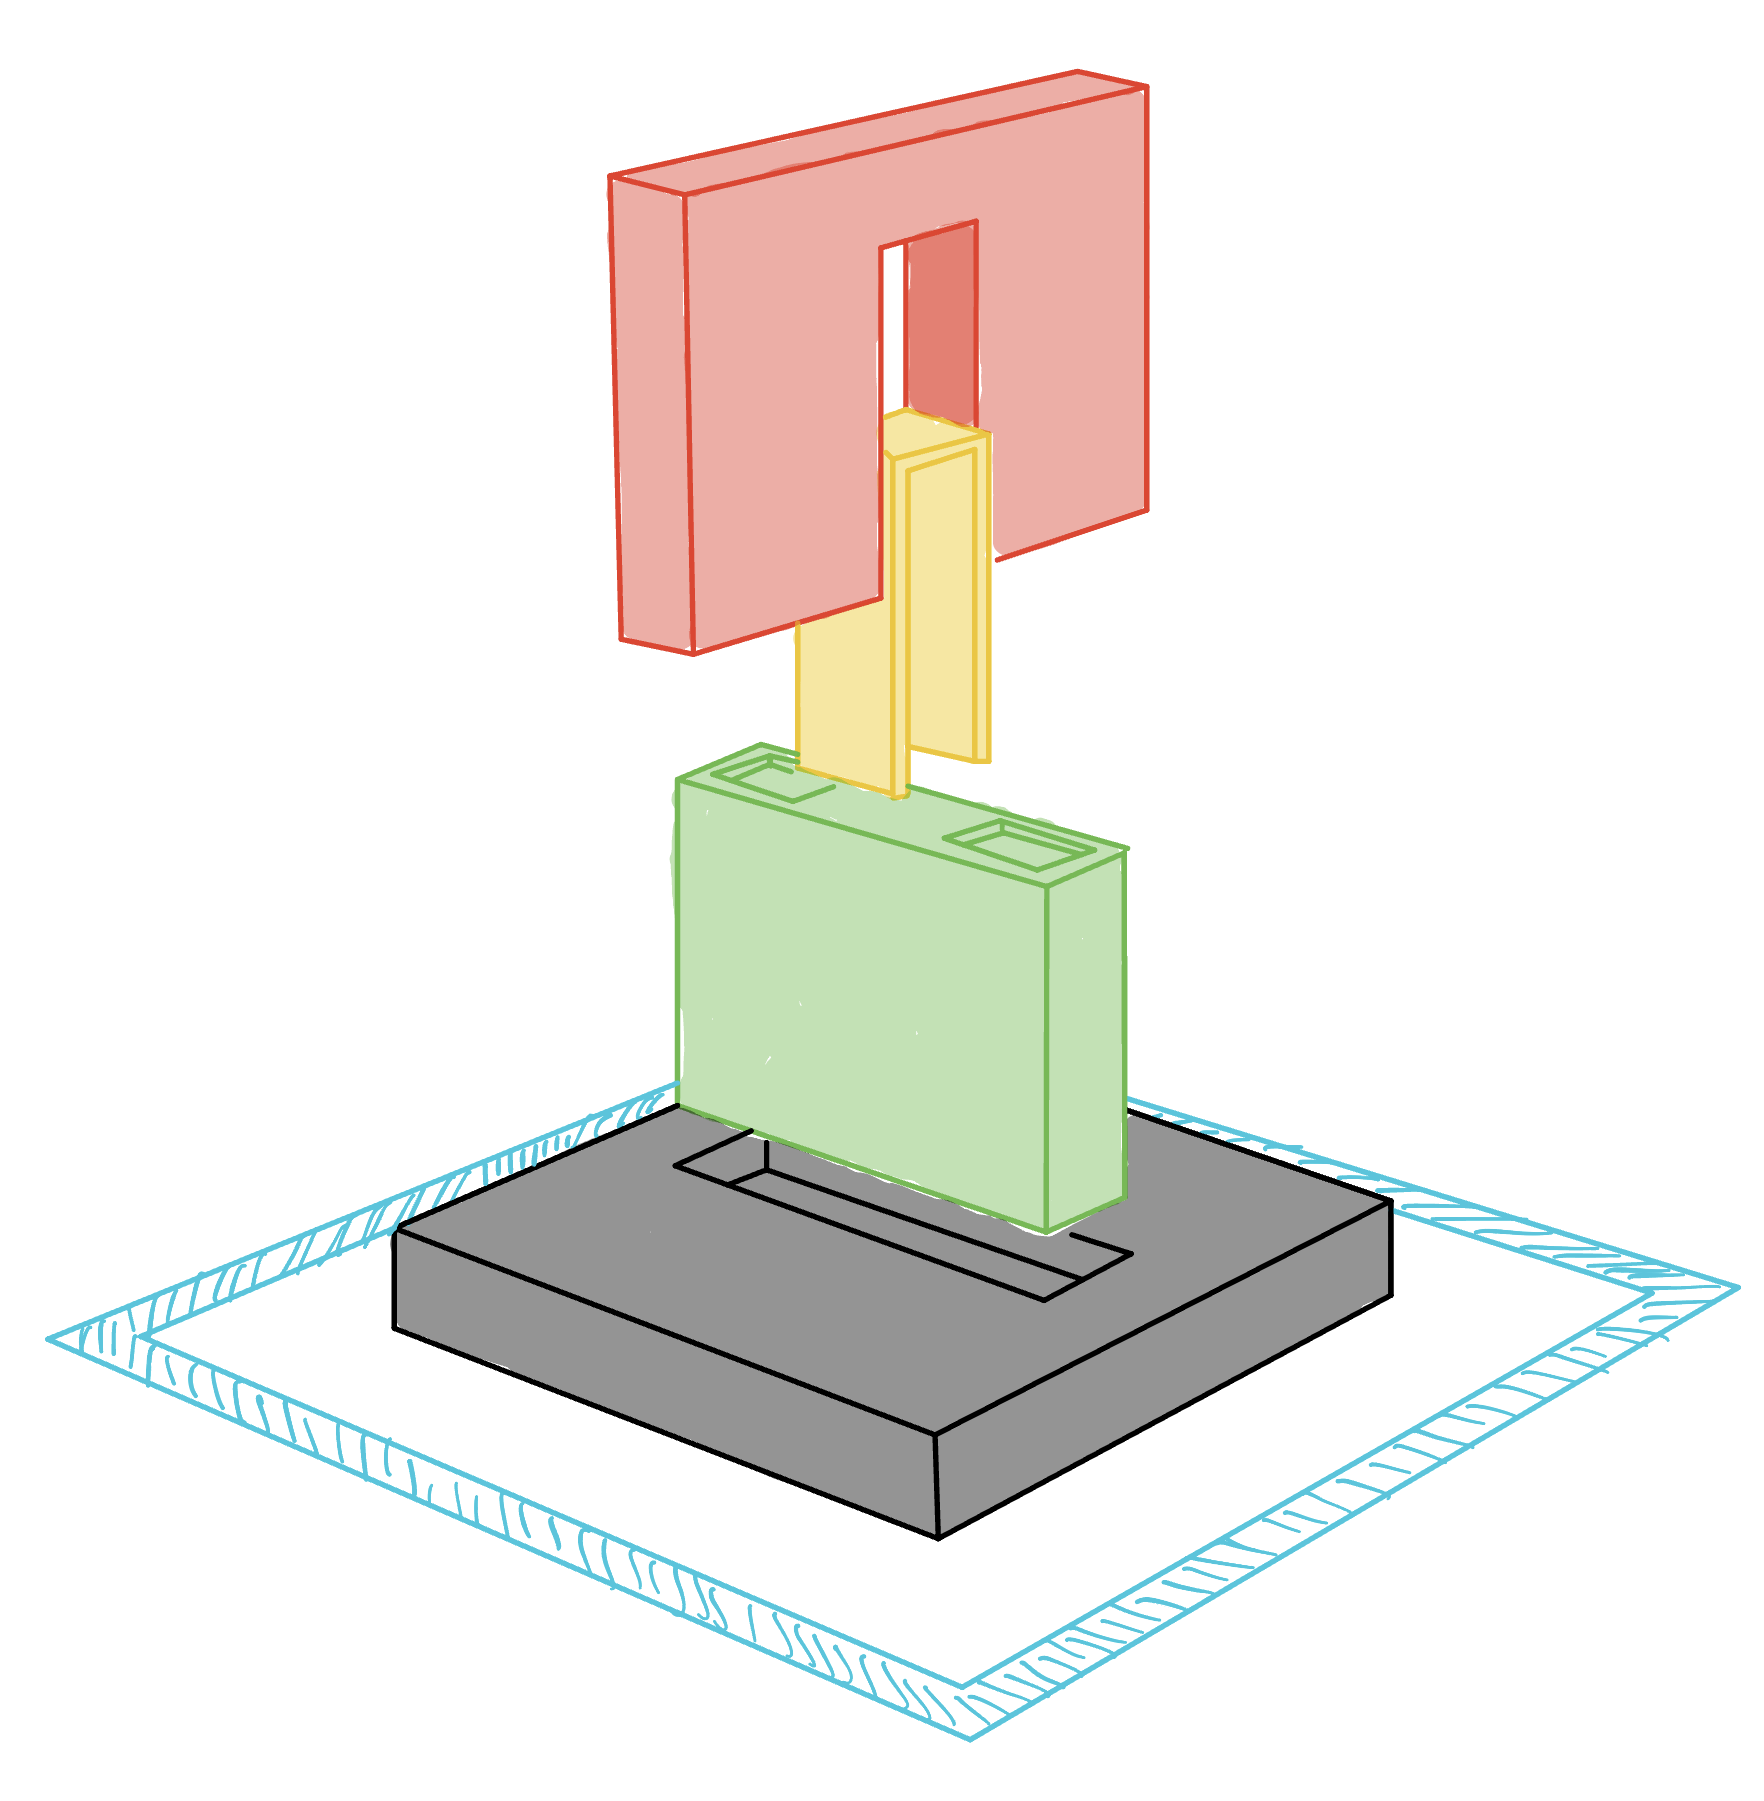
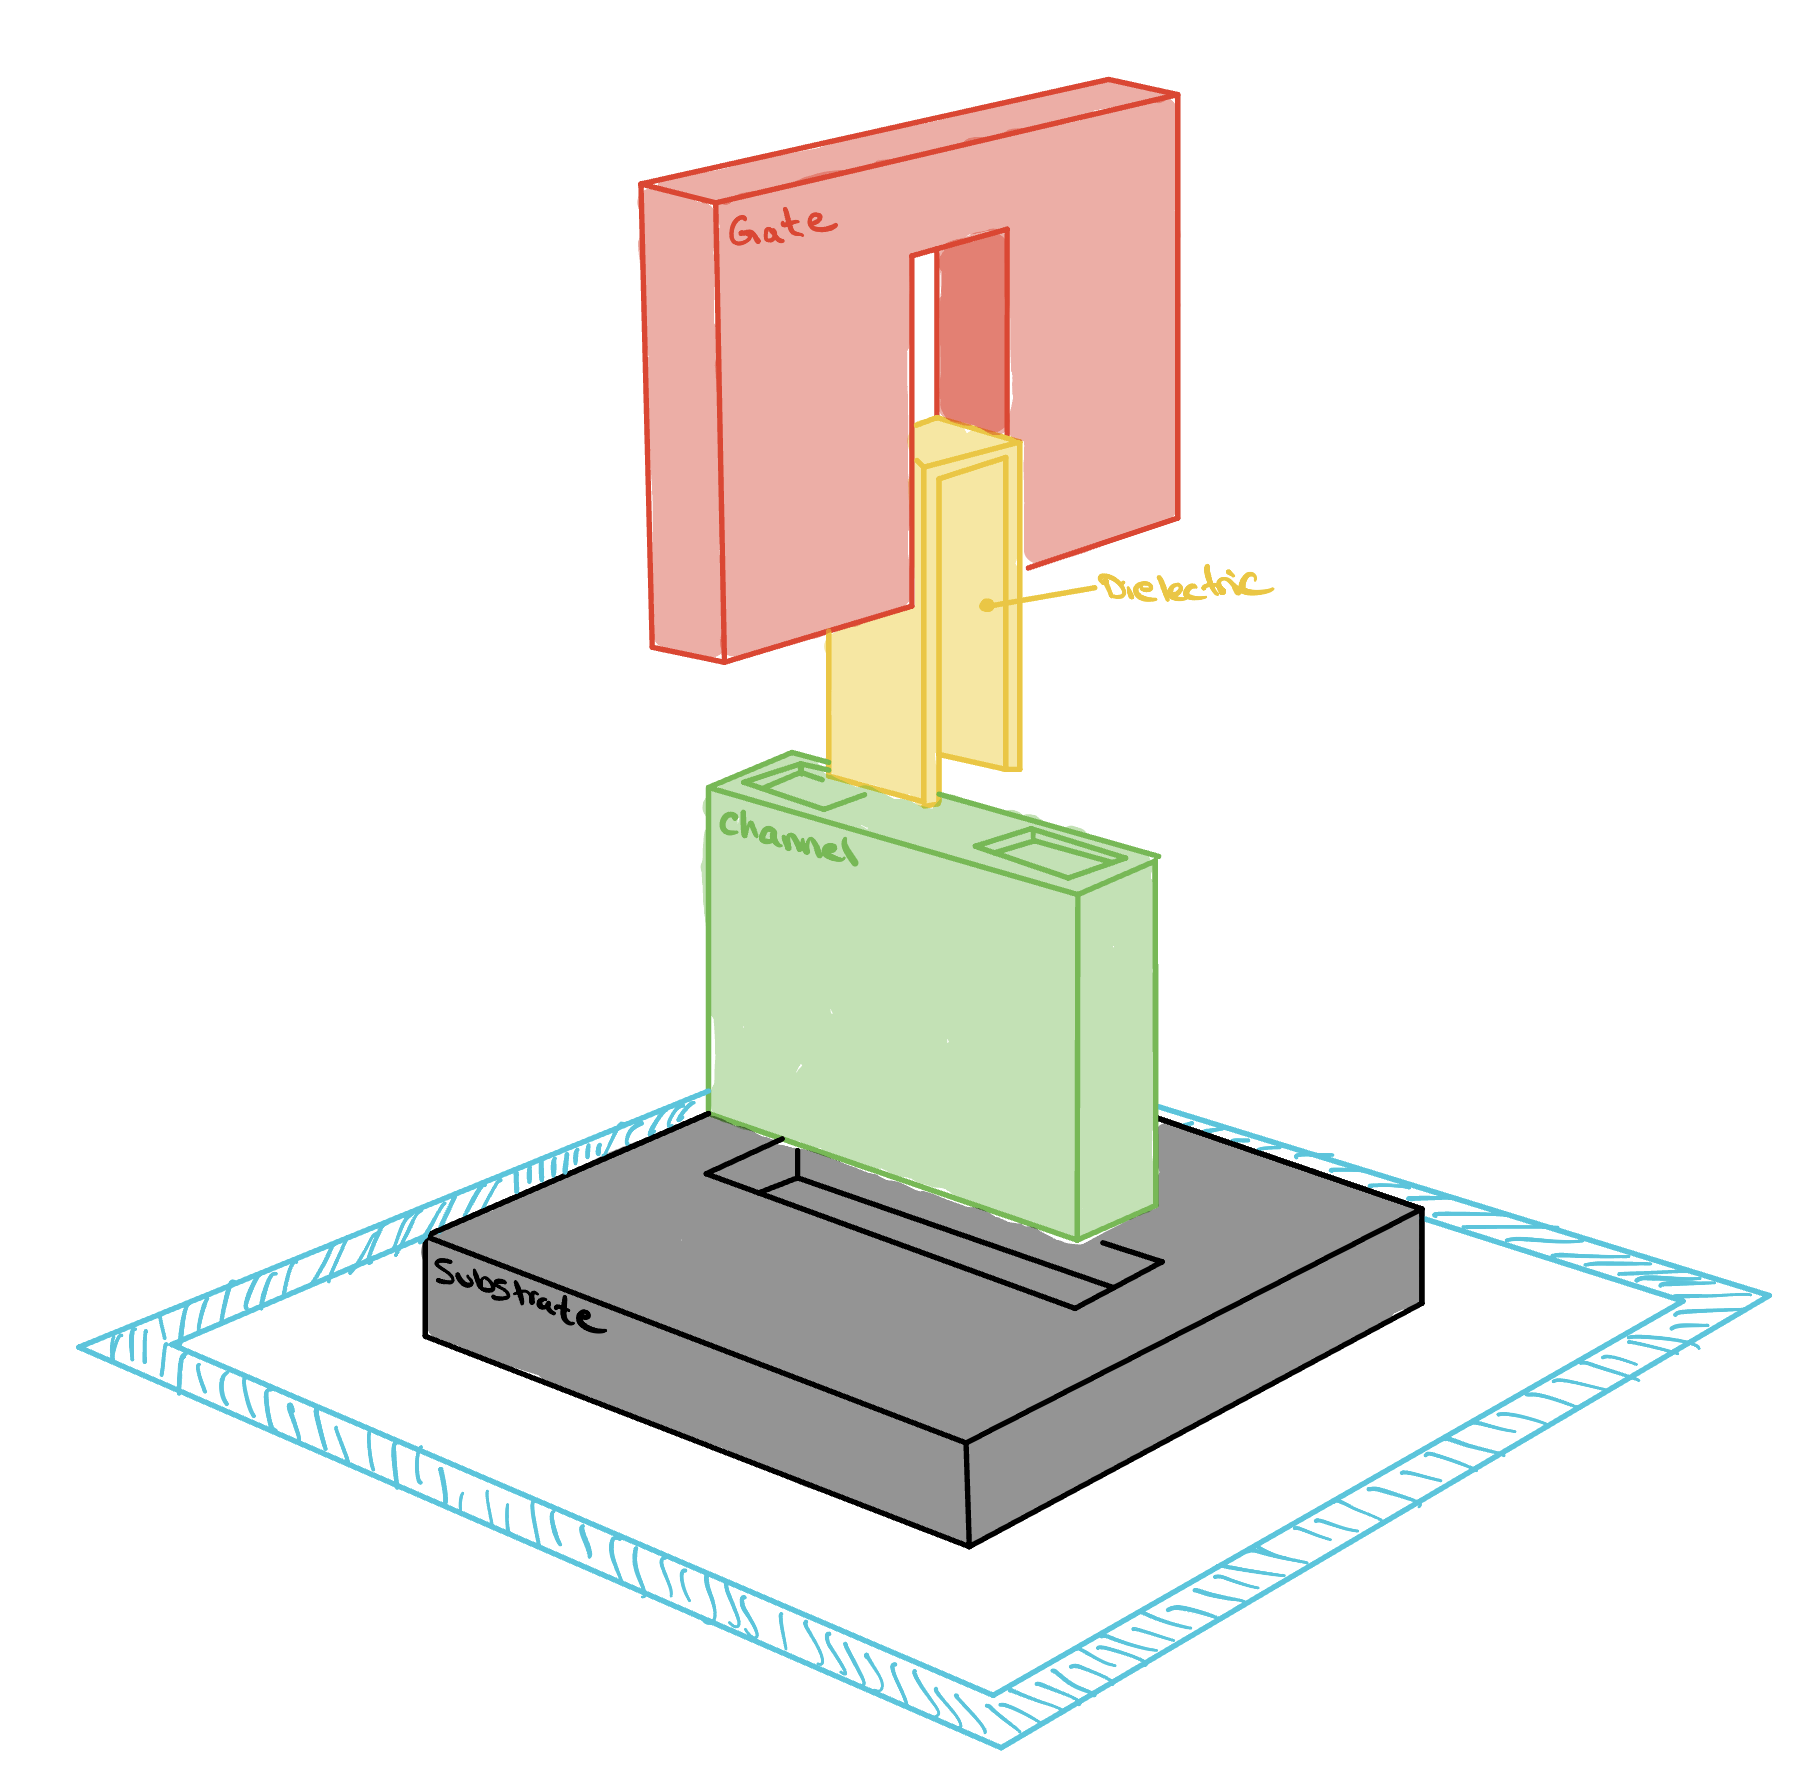
Add Transistor Basics lesson (Introduction to Physical Design)
- New lesson page: hero intro (transistor as a switch) + Anatomy of a Transistor section using the exploded FinFET diagram
- Add Transistor Basics to the Introduction to Physical Design drawer group

diff --git a/introduction-to-physical-design/transistor-basics/index.html b/introduction-to-physical-design/transistor-basics/index.html
@@ -1,0 +1,189 @@
+<!DOCTYPE html>
+<html lang="en">
+<head>
+  <meta charset="UTF-8" />
+  <meta name="viewport" content="width=device-width, initial-scale=1.0" />
+
+  <!-- Mark JS available before first paint, so the "hidden-before-reveal"
+       styles only apply when scroll.js can reveal them again. Without JS this
+       never runs and the full page stays visible. -->
+  <script>document.documentElement.classList.add("js");</script>
+
+  <title>Transistor Basics</title>
+  <meta name="description"
+        content="A transistor is nothing more than a switch, and it is the building block of every modern computer. Learn how a transistor works and how a handful of them wire together into the logic gates behind every circuit." />
+
+  <!-- Social link previews: shared logo + "Silicon From Scratch" card (see index.html). -->
+  <meta property="og:type" content="website" />
+  <meta property="og:site_name" content="Silicon From Scratch" />
+  <meta property="og:title" content="Silicon From Scratch" />
+  <meta property="og:url" content="https://siliconfromscratch.com/introduction-to-physical-design/transistor-basics/" />
+  <meta property="og:image" content="https://siliconfromscratch.com/assets/home/logo.jpg" />
+  <meta property="og:image:width" content="1408" />
+  <meta property="og:image:height" content="768" />
+  <meta property="og:image:alt" content="Silicon From Scratch logo" />
+  <meta name="twitter:card" content="summary_large_image" />
+  <meta name="twitter:title" content="Silicon From Scratch" />
+  <meta name="twitter:image" content="https://siliconfromscratch.com/assets/home/logo.jpg" />
+
+  <!-- Favicon follows the browser colour scheme: the grey/purple mark on
+       light tab bars, the dark-theme symbol on dark ones. -->
+  <link rel="icon" type="image/png" media="(prefers-color-scheme: light)" href="/assets/home/logo-symbol-light.png" />
+  <link rel="icon" type="image/png" media="(prefers-color-scheme: dark)" href="/assets/home/logo-symbol.png" />
+
+  <link rel="preconnect" href="https://fonts.googleapis.com" />
+  <link rel="preconnect" href="https://fonts.gstatic.com" crossorigin />
+  <link href="https://fonts.googleapis.com/css2?family=Bricolage+Grotesque:opsz,wght@12..96,400..700&family=JetBrains+Mono:wght@400;500&family=Newsreader:ital,opsz,wght@0,6..72,400..600;1,6..72,400..500&display=swap"
+        rel="stylesheet" />
+
+  <!-- Shared site styles, then the ALU project components (this page lives at
+       /introduction-to-physical-design/transistor-basics/, two levels down). -->
+  <link rel="stylesheet" href="../../styles/main.css" />
+  <link rel="stylesheet" href="../../styles/alu.css" />
+</head>
+<body class="theme-dark page-logic">
+  <a class="skip-link" href="#main">Skip to content</a>
+
+  <!-- ============================== TOP BAR ============================== -->
+  <header class="topbar">
+    <div class="container topbar__inner">
+      <a class="wordmark" href="../../" aria-label="Silicon From Scratch — home">
+        <img class="wordmark__mark" src="../../assets/home/logo-symbol.png" alt="" aria-hidden="true" />
+        Silicon From Scratch
+      </a>
+
+      <nav class="nav" id="primary-nav" aria-label="Primary">
+        <a href="../../">Home</a>
+        <a href="../../meet-the-processor/">Meet the Processor</a>
+        <a href="https://github.com/estaresinic05/Silicon-From-Scratch"
+           target="_blank" rel="noopener">GitHub</a>
+        <a href="../../about/">About</a>
+        <a href="../../#tools">Tools</a>
+      </nav>
+
+      <div class="topbar__right">
+        <!-- Section index (desktop only): hover the ☰ to open the project directory -->
+        <div class="toc" id="page-toc">
+          <button class="toc__btn" type="button" aria-haspopup="true"
+                  aria-expanded="false" aria-label="Open the project directory">
+            <span class="nav-toggle__bars" aria-hidden="true"></span>
+          </button>
+          <ul class="toc__menu" aria-label="Project directory"></ul>
+        </div>
+
+        <button class="nav-toggle" id="nav-toggle"
+                aria-label="Toggle navigation menu"
+                aria-expanded="false" aria-controls="primary-nav">
+          <span class="nav-toggle__bars" aria-hidden="true"></span>
+        </button>
+      </div>
+    </div>
+  </header>
+
+  <main id="main">
+    <span id="top"></span>
+
+    <!-- ============================== DOC HERO ============================ -->
+    <section class="doc-hero doc-hero--balanced container" aria-labelledby="tb-title">
+      <div class="doc-hero__text">
+        <h1 id="tb-title" class="title-eyebrow"><span class="title-eyebrow__text"><span class="title-eyebrow__group">Transistor</span> <span class="title-eyebrow__group">Basics</span></span></h1>
+        <p class="doc-hero__lead">
+          <strong>Transistors</strong> are the building blocks of every modern
+          computer, and yet each one is nothing more than a <strong>switch</strong>.
+          In this lesson we will look at how that switch actually works, and how just
+          a handful of them, wired together, build the very logic gates we met
+          earlier.
+        </p>
+      </div>
+
+      <figure class="doc-hero__art">
+        <img src="../../assets/introduction-to-physical-design/transistor-basics.jpg"
+             alt="A hand-drawn three-dimensional sketch of a transistor: a grey base with a green fin rising through a red gate slab, and two grey metal contacts standing above it, labelled Transistor Basics."
+             decoding="async" />
+      </figure>
+    </section>
+
+    <!-- ========================= ANATOMY OF A TRANSISTOR ================ -->
+    <section class="section" id="anatomy" aria-labelledby="anatomy-title">
+      <div class="container container--wide">
+        <div class="section__head">
+          <h2 id="anatomy-title">The Anatomy of a Transistor</h2>
+        </div>
+
+        <div class="split split--media-right">
+          <figure class="figure" style="max-width: 26rem;">
+            <img src="../../assets/introduction-to-physical-design/finfet-exploded.jpg"
+                 alt="An exploded three-dimensional sketch of a transistor with its layers pulled apart: a grey silicon substrate at the bottom, a green fin standing on it that carries the source, channel, and drain, a thin yellow gate-oxide layer above it, and a red gate that sits across the channel."
+                 decoding="async" />
+          </figure>
+
+          <div class="prose">
+            <p>
+              Every transistor is built on a base of silicon called the
+              <strong>substrate</strong>, drawn here in grey. Rising out of it is the
+              part that actually does the work. Current enters at one end, called the
+              <strong>source</strong>, and leaves at the other, called the
+              <strong>drain</strong>. In the sketch these sit at the two ends of the
+              green block. Between them lies the <strong>channel</strong>, the stretch
+              of silicon that current has to cross to get from the source to the
+              drain.
+            </p>
+            <p>
+              Sitting over the channel is the <strong>gate</strong>, shown in red, and
+              this is the piece that gives a transistor its power. The gate never
+              actually touches the channel. A wafer-thin layer of insulating glass
+              called the <strong>gate oxide</strong>, drawn in yellow, keeps the two
+              apart, so the gate cannot pass any current of its own into the channel.
+              Instead it controls the channel from a distance, purely through the
+              electric field it creates when we place a voltage on it.
+            </p>
+          </div>
+        </div>
+
+        <div class="prose prose--flow" style="margin-top: var(--space-4);">
+          <p>
+            This is the whole trick. When we put the right voltage on the gate, its
+            electric field reaches through the oxide and pulls the channel into a
+            conducting state, opening a path so that current flows freely from the
+            source to the drain. Take the voltage away and the channel closes again,
+            and no current can cross. The gate is the lever, and the source and drain
+            are the two contacts it connects or separates. A transistor, for all its
+            tiny complexity, really is just a switch that another wire gets to flip.
+          </p>
+        </div>
+      </div>
+    </section>
+  </main>
+
+  <!-- =============================== FOOTER ============================== -->
+  <footer class="footer">
+    <div class="container footer__inner">
+      <a class="wordmark" href="#top" aria-label="Silicon From Scratch — back to top">
+        <span class="wordmark__dot" aria-hidden="true"></span>
+        Silicon From Scratch
+      </a>
+      <a href="https://github.com/estaresinic05/Silicon-From-Scratch"
+         target="_blank" rel="noopener">GitHub Repository</a>
+    </div>
+    <p class="container footer__credit">
+      Adapted from: David A. Patterson and John L. Hennessy,
+      <em>Computer Organization and Design RISC-V Edition: The Hardware/Software
+      Interface</em>, Second Edition, Appendix A, &ldquo;The Basics of Logic
+      Design&rdquo; (Morgan Kaufmann, 2021).
+    </p>
+  </footer>
+
+  <!-- Mobile nav toggle + project directory drawer -->
+  <script src="../../scripts/main.js" defer></script>
+
+  <!-- GSAP + ScrollTrigger from CDN for the same scroll-reveal feel as the rest
+       of the site. If they fail to load, scroll.js removes the `js` class and
+       the page is simply fully visible. -->
+  <script src="https://cdnjs.cloudflare.com/ajax/libs/gsap/3.12.5/gsap.min.js" defer integrity="sha512-7eHRwcbYkK4d9g/6tD/mhkf++eoTHwpNM9woBxtPUBWm67zeAfFC+HrdoE2GanKeocly/VxeLvIqwvCdk7qScg==" crossorigin="anonymous"></script>
+  <script src="https://cdnjs.cloudflare.com/ajax/libs/gsap/3.12.5/ScrollTrigger.min.js" defer integrity="sha512-onMTRKJBKz8M1TnqqDuGBlowlH0ohFzMXYRNebz+yOcc5TQr/zAKsthzhuv0hiyUKEiQEQXEynnXCvNTOk50dg==" crossorigin="anonymous"></script>
+  <script src="../../scripts/scroll.js" defer></script>
+  <!-- Enlarge: static figure images pop on hover and open enlarged on a
+       blurred backdrop when clicked (see scripts/enlarge.js). -->
+  <script src="../../scripts/enlarge.js" defer></script>
+</body>
+</html>

diff --git a/scripts/main.js b/scripts/main.js
@@ -148,7 +148,9 @@
         "Control Hazards",
         "Testing"
       ]],
-      ["Introduction to Physical Design", ["Coming Soon"]]
+      ["Introduction to Physical Design", [
+        ["Transistor Basics", "introduction-to-physical-design/transistor-basics/"]
+      ]]
     ]],
     ["Very Advanced", [
       ["Pipelined CPU Physical Design", ["Coming Soon"]],
